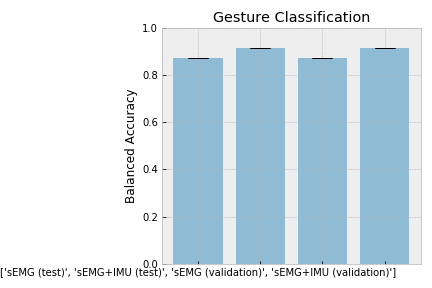
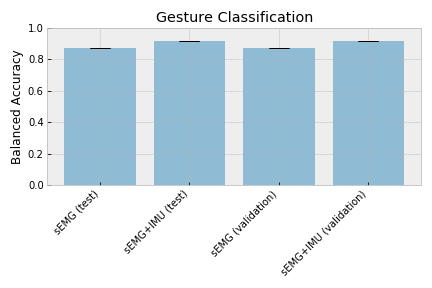
cleared npy files from git and cleaned up plots

diff --git a/imu_prediction_metrics.py b/imu_prediction_metrics.py
@@ -46,10 +46,10 @@ def gen_to_nmpy(gen, file_name=None, y_raw=False):
     xx = xx_imu[:,:,:-3]
     yy = np.vstack([y for x,y in gen])
     if file_name:
-        np.save(f'{file_name}_xx_imu',xx_imu)
-        np.save(f'{file_name}_xx',xx)
-        np.save(f'{file_name}_yy_raw',yy)
-        np.save(f'{file_name}_yy',np.argmax(yy, axis=1))
+        np.save(f'figures/data/{file_name}_xx_imu',xx_imu)
+        np.save(f'figures/data/{file_name}_xx',xx)
+        np.save(f'figures/data/{file_name}_yy_raw',yy)
+        np.save(f'figures/data/{file_name}_yy',np.argmax(yy, axis=1))
     if not y_raw:
         yy = np.argmax(yy, axis=1)
     return xx_imu, xx, yy
@@ -78,11 +78,12 @@ validation = generator(data, list(val_reps), augment=False, imu=True)
 test = generator(data, [test_reps][0], augment=False, imu=True)
 
 #%%
+# UNCOMMENT FOR NPY
 # val_x_imu, val_x, val_y = gen_to_nmpy(validation, 'val')
 # test_x_imu, test_x, test_y = gen_to_nmpy(test, 'test')
 # del train
-val_x_imu, val_x, val_y = np.load('val_xx_imu.npy'), np.load('val_xx.npy'), np.load('val_yy.npy')
-test_x_imu, test_x, test_y = np.load('test_xx_imu.npy'), np.load('test_xx.npy'), np.load('test_yy.npy')
+val_x_imu, val_x, val_y = np.load('figures/data/val_xx_imu.npy'), np.load('figures/data/val_xx.npy'), np.load('figures/data/val_yy.npy')
+test_x_imu, test_x, test_y = np.load('figures/data/test_xx_imu.npy'), np.load('figures/data/test_xx.npy'), np.load('figures/data/test_yy.npy')
 #%%
 loss = l.focal_loss(gamma=3., alpha=6.)
 model_pars = build_model_pars(val_x.shape[1], 53, val_x.shape[-1])
@@ -130,31 +131,7 @@ def set_weights(model, h5_path):
     model.compile(Ranger(learning_rate=1e-3), loss=loss, metrics=["accuracy"])
     return model
 
-#%%
-## Prediction Functions
-# def build_pred(model, weight_fn, weightPath='h5', data, process_fn=None):
-#     pred = []
-def baselineMetrics(t,b):
-    _acc = accuracy_score(t,b)
-    _accBal = balanced_accuracy_score(t,b)
-    _matt = matthews_corrcoef(t,b)
-    _prfs = precision_recall_fscore_support(t,b,average='weighted')
-    return {
-        'Acc': np.round(_acc,4),
-        'Balanced Acc': np.round(_accBal,4),
-        'MCC': np.round(_matt,4),
-        'Precision': np.round(_prfs[0],4),
-        'Recall': np.round(_prfs[1],4),
-        'f1-Score': np.round(_prfs[2],4)
-    }
 
-def get_pred_data(path_pairs=[]):
-    pairs = []
-    for y,p in path_pairs:
-        t = np.load(y)
-        m = [[v for v in baselineMetrics(t,_p).values()] for _p in np.load(p)]
-        pairs.append(m)
-    return np.array(pairs)
 
 
 #%%
@@ -178,14 +155,15 @@ for i in range(1,31):
 predictions_v = [np.argmax(p, axis=1) for p in predictions_v_raw]
 predictions_t = [np.argmax(p, axis=1) for p in predictions_t_raw]
 #%%
+# ** UNCOMMENT HERE TO BUILD npy FILES **
 # Need to make this whole generation process into fuctions...maybe classes
-# np.save('predictions_v_raw',predictions_v_raw)
+# np.save('figures/data/predictions_v_raw',predictions_v_raw)
 # predictions_v_raw = None
-# np.save('predictions_v',predictions_v)
+# np.save('figures/data/predictions_v',predictions_v)
 # predictions_v = None
-# np.save('predictions_t_raw',predictions_t_raw)
+# np.save('figures/data/predictions_t_raw',predictions_t_raw)
 # predictions_t_raw = None
-# np.save('predictions_t',predictions_t)
+# np.save('figures/data/predictions_t',predictions_t)
 # predictions_t = None
 model =None
 #%%
@@ -204,13 +182,14 @@ predictions_v_imu = [np.argmax(p, axis=1) for p in predictions_v_imu_raw]
 predictions_t_imu = [np.argmax(p, axis=1) for p in predictions_t_imu_raw]
 
 #%%
-# np.save('predictions_v_imu_raw',predictions_v_imu_raw)
+# ** UNCOMMENT HERE TO BUILD npy FILES **
+# np.save('figures/data/predictions_v_imu_raw',predictions_v_imu_raw)
 # predictions_v_imu_raw = None
-# np.save('predictions_v_imu',predictions_v_imu)
+# np.save('figures/data/predictions_v_imu',predictions_v_imu)
 # predictions_v_imu = None
-# np.save('predictions_t_imu_raw',predictions_t_imu_raw)
+# np.save('figures/data/predictions_t_imu_raw',predictions_t_imu_raw)
 # predictions_t_imu_raw = None
-# np.save('predictions_t_imu',predictions_t_imu)
+# np.save('figures/data/predictions_t_imu',predictions_t_imu)
 # predictions_t_imu = None
 model_imu = None
 

diff --git a/figures/metrics.py b/figures/metrics.py
@@ -103,7 +103,7 @@ cols, lines, errors = build_metrics(ysets, default_metrics, return_df=False)
 # %%
 plot_conf = {
     'title':'Gesture Classification',
-    'xlabel':[list(ysets.keys())],
+    'xlabel':list(ysets.keys()),
     'ylabel': 'Balanced Accuracy'
 }
 
@@ -115,7 +115,7 @@ def build_bar_plot(lines,errors,filePath=None,**kwargs):
     ax.set_ylabel(kwargs['ylabel'])
     ax.set_ylim([0,1])
     ax.set_xticks(x_pos)
-    ax.set_xticklabels(list(kwargs['xlabel']))
+    ax.set_xticklabels(kwargs['xlabel'],rotation=45, ha='right')
     ax.set_title(kwargs['title'])
     ax.yaxis.grid(True)
 
